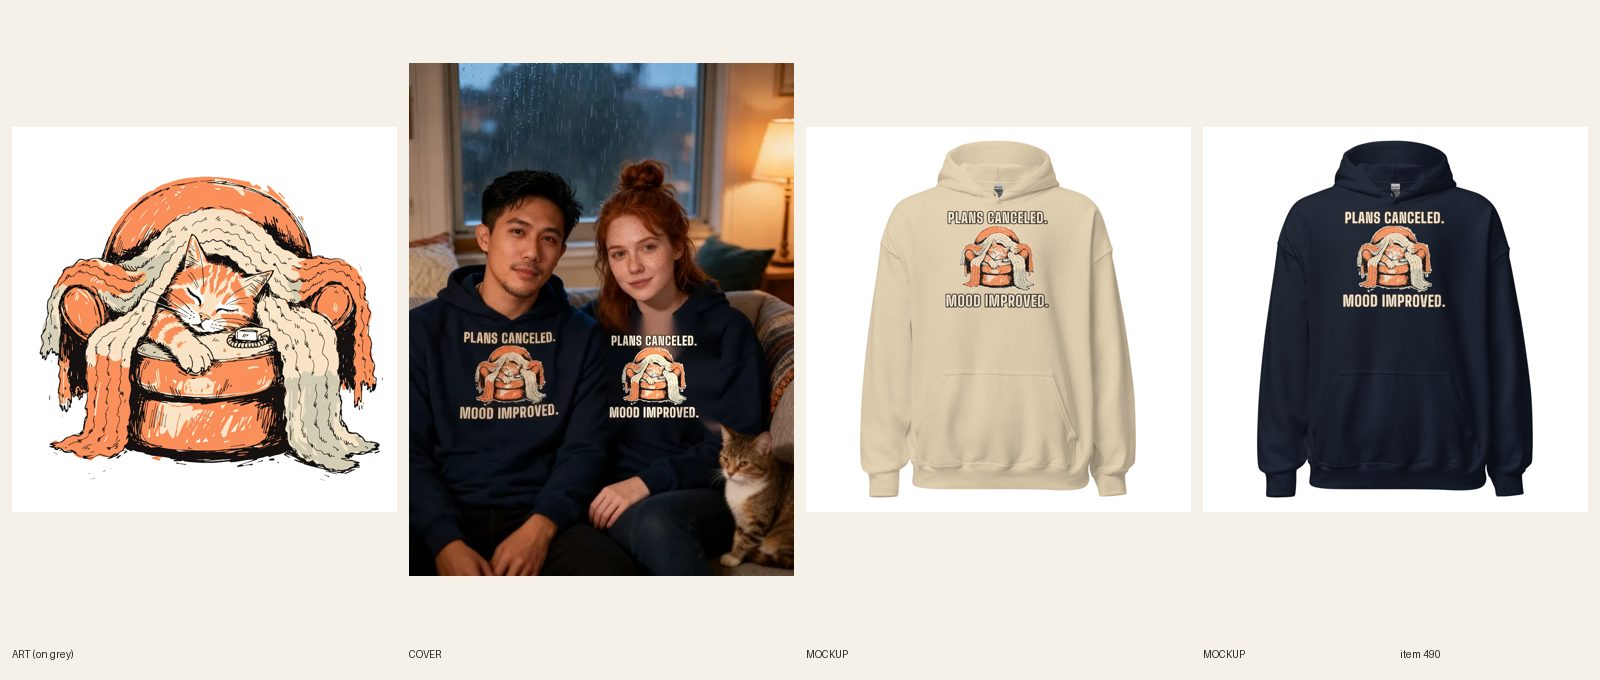
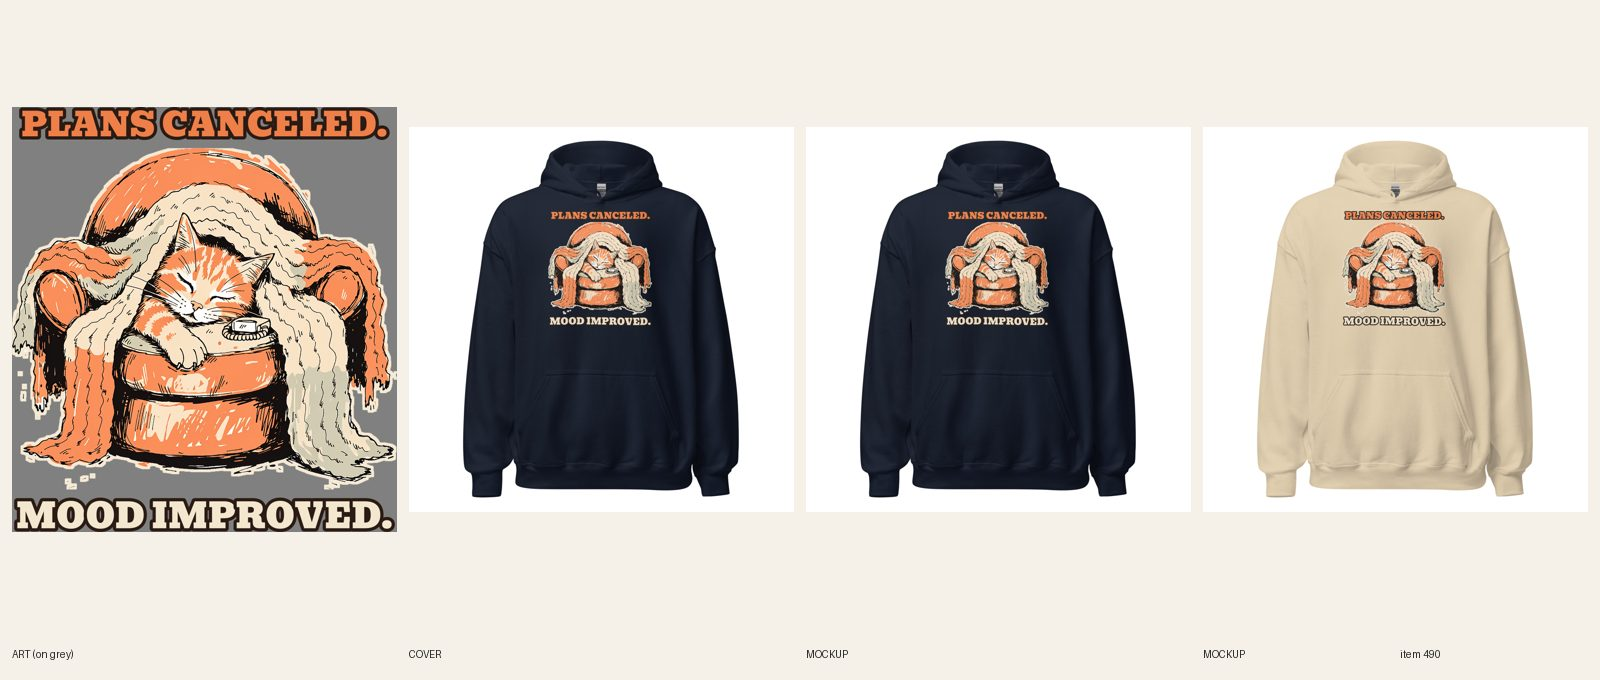
[E] review 490 Unisex Homebody Plans Canceled hoodie (type redo)
Claude-Session: https://claude.ai/code/session_01AUB5ppeCB41cxL3JPe2Pzf

diff --git a/docs/pipeline/490-hoodie-plans-canceled-mood-improved.md b/docs/pipeline/490-hoodie-plans-canceled-mood-improved.md
@@ -1,4 +1,4 @@
-status: REDO
+status: REVIEW
 lane: E
 type: new
 id: 490
@@ -31,3 +31,4 @@ kd: 40
 - 2026-10-18 03:05 UTC builder [E]: REVIEW. Art: 1 Recraft call (try 1 kept: orange tabby melted into a knitted blanket on a round armchair, phone face-down). PLANS CANCELED. / MOOD IMPROVED. in Big Shoulders 900 cream with a dark keyline via compose-print (no model lettering), solid fill plus a thin cream halo so the art reads on Navy. First compose made the cat too small, so recomposed at art width 0.68 (print 11.4 x 10.6 in, FW 1500 TOP 0, about 9.3 in tall, clear of the pouch seam). Colors Sand + Navy, both mockups read at phone size. DRAFT gid 15364377149744 (category aa-1-13-13, 12 variants $39.99, compare-at null, tags per brief incl. both hub tags, keyword homebody hoodie 210/40 in line one and meta, 5 FAQs 47-53 words incl. Dec 8); Printful file 1088612342, sync 12/12. Mockups Sand + Navy + back attached and linked. Cover registry 814+815 try 1: her hair covered the PL of PLANS, so per 9b the exact print was composited on her chest (hair kept behind the shoulder); both in navy hoodies with hoods visible, hands in laps, cat at the side, alt starts Man and woman. Variant-photo audit clean; audit --handle only 'not visible'. fal ~$0.2.
 - 2026-10-18 02:45 UTC director: LIVE (ACTIVE + Online Store/Headless/Google & YouTube, audit PASS 0 warn).
 - 2026-10-18 17:22 UTC director: QUALITY RESET grade B (type only), REDO. The product stays ACTIVE (same handle, URL, title keyword). Keep the line "PLANS CANCELED. / MOOD IMPROVED." and the art. 1. Type: No type in art file; small plain bars about 60% of chest print, not dominant. 2. Quality reset type bar (docs/backlog/quality-reset.md, 'The new bar'): headline at least 90% of the art width, heavy, colors pulled from the art; second line at least 45% of the headline's height, never a thin script on a dark or mid garment; use the lettering as a shape (arch, stacked lockup, words breaking into the art), not a plain bar above and a script line below; no font used on more than 1 in 6 of the last 30 designs. 3. New print file means a new cover per R6.10 and a fresh review sheet (R7.7). While quality-reset.md says PAUSED, only lane A builds, and only the samples step 2 names.
+- 2026-10-19 16:24 UTC builder [E]: REDO type-only done. Same cat art (old bars cropped off), new lockup designs/e490/spec.json: PLANS CANCELED. orange #ee7f48 over MOOD IMPROVED. cream #f3e7cf in Bevan, dark #2a1b14 keyline, both lines ~97% of art width. Printful file 1089656614, FW 1500 TOP 0 (9.6 x 10.6 in), resynced 12/12. Sand + Navy fronts replaced in Shopify (old fronts detached/deleted, back unchanged), line-two copy sentence rewritten for the new lettering. Light-file check: cream line has a heavy dark keyline and Sand is the only light color; reads on both at phone size. Cover: plain product shot (handle added to retired-covers.json). Audit PASS 0 warn, variant-photo audit no nulls, design-crops rerun. fal $0. Sheet docs/review/490.jpg. Set REVIEW.

diff --git a/docs/intake-log.md b/docs/intake-log.md
@@ -1,5 +1,5 @@
 RUNNING director since 2026-10-19 16:16 UTC
-RUNNING lane E since 2026-10-19 16:18 UTC
+2026-10-19 16:24 UTC — [E] Builder run: redid #490 Plans Canceled. Mood Improved. hoodie (type only: Bevan orange/cream lockup at about full art width, same cat art, FW 1500, 12/12 synced, Sand+Navy fronts replaced in place, plain product shot). REVIEW. fal $0.
 2026-10-19 16:13 UTC — [A] Builder run: redid #244 Nana's Cookies crewneck (ported approved #245 THE RECIPE / DIES WITH ME. print, FW 1650, 30/30 relinked, 5 fronts replaced, plain product shot). REVIEW. fal $0. 1 redo per run cap reached. Lock released.
 RUNNING lane C since 2026-10-19 15:56 UTC
 2026-10-19 16:40 UTC — [B] Builder run: redid #403 I Have Plans hoodie (type only: BowlbyOne coral headline at full art width, same crab art, FW 1500, 12/12 synced, Sand+Navy mockups replaced in place, plain product shot). REVIEW. fal $0. 1 redo per run cap reached. Lock released.
